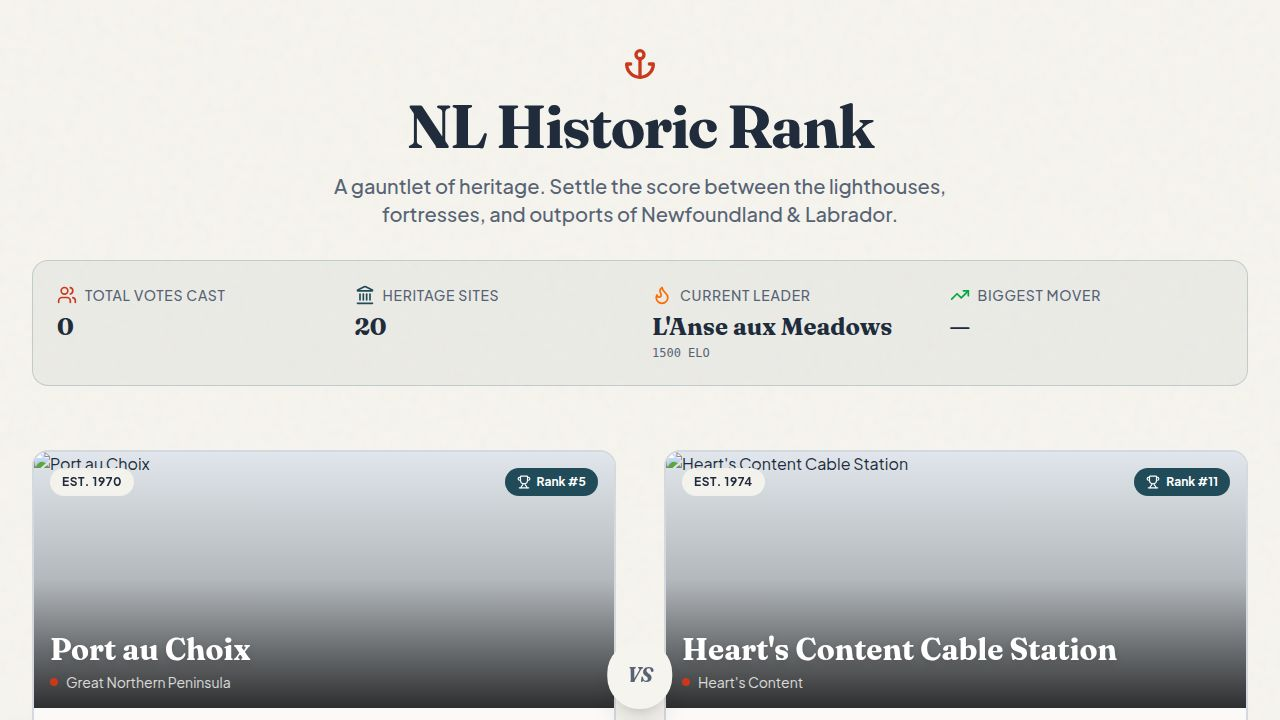
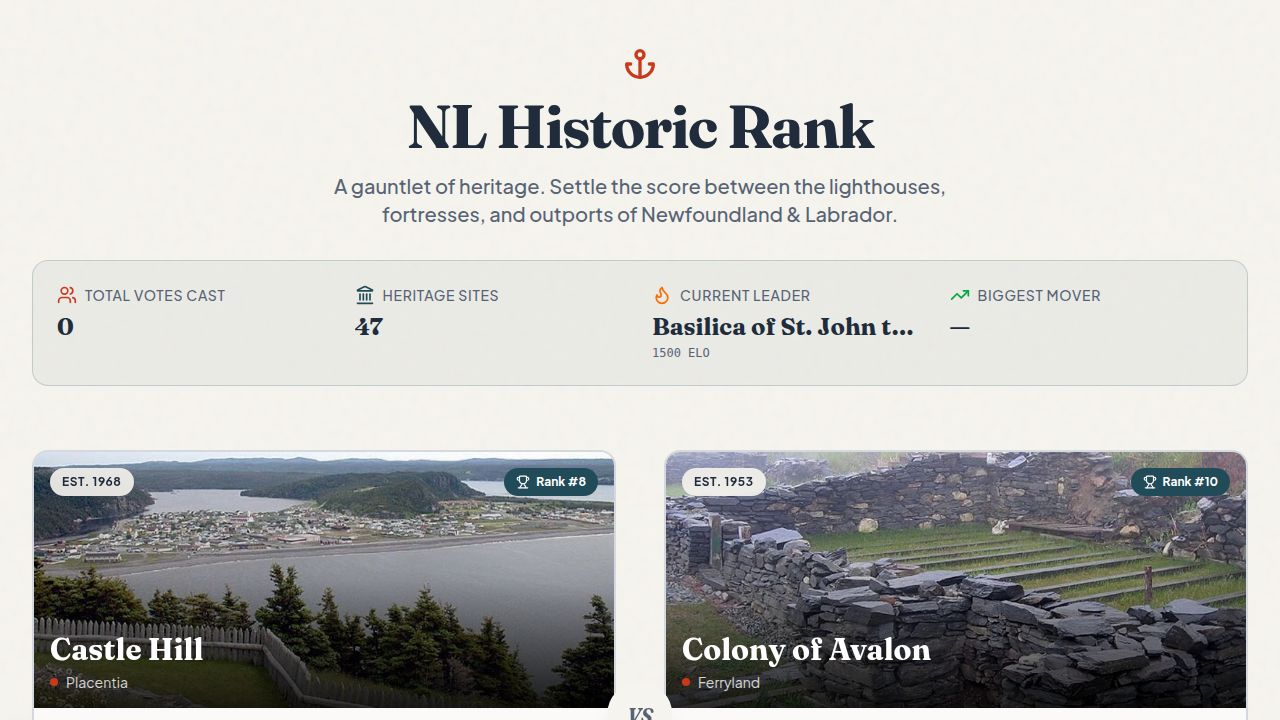
Improve image loading and display across the application
Introduce a new `SiteImage` component to handle image loading with retries, lazy loading, and fallbacks. Update `matchup.tsx`, `rankings.tsx`, and `site-detail-dialog.tsx` to use the new component.

Replit-Commit-Author: Agent
Replit-Commit-Session-Id: 2537e91c-dea8-46b8-84ee-7a7e94a284e6
Replit-Commit-Checkpoint-Type: full_checkpoint
Replit-Commit-Event-Id: 475016c2-a976-45b3-a6ca-d1c51f2db19e
Replit-Commit-Screenshot-Url: https://storage.googleapis.com/screenshot-production-us-central1/49ffbed3-a589-4a9d-927f-03249e78f3f7/2537e91c-dea8-46b8-84ee-7a7e94a284e6/lET9mZ5
Replit-Helium-Checkpoint-Created: true

Changed region(s): [[0.0, 0.6111, 1.0, 1.0], [0.5, 0.4278, 0.7188, 0.4889], [0.2812, 0.4278, 0.3125, 0.4889]]

diff --git a/artifacts/nl-historic-rank/src/components/site-detail-dialog.tsx b/artifacts/nl-historic-rank/src/components/site-detail-dialog.tsx
@@ -2,6 +2,7 @@ import { Dialog, DialogContent, DialogHeader, DialogTitle } from "@/components/u
 import { Badge } from "@/components/ui/badge";
 import { Trophy, MapPin, Swords, TrendingUp, TrendingDown, Minus, Calendar } from "lucide-react";
 import type { RankedSite } from "@workspace/api-client-react";
+import { SiteImage } from "./site-image";
 
 export default function SiteDetailDialog({
   site,
@@ -22,17 +23,13 @@ export default function SiteDetailDialog({
         {site && (
           <>
             <div className="relative h-64 w-full bg-muted">
-              {site.imageUrl ? (
-                <img
-                  src={site.imageUrl}
-                  alt={site.name}
-                  className="w-full h-full object-cover"
-                />
-              ) : (
-                <div className="w-full h-full flex items-center justify-center text-6xl text-muted-foreground font-serif italic opacity-30">
-                  {site.name[0]}
-                </div>
-              )}
+              <SiteImage
+                src={site.imageUrl}
+                alt={site.name}
+                fallbackInitial={site.name[0]}
+                className="w-full h-full object-cover"
+                fallbackClassName="w-full h-full flex items-center justify-center text-6xl text-muted-foreground font-serif italic opacity-30"
+              />
               <div className="absolute inset-0 bg-gradient-to-t from-black/80 via-black/20 to-transparent" />
               <div className="absolute top-4 right-4 flex gap-2">
                 <Badge variant="secondary" className="gap-1.5 px-3 py-1">

diff --git a/artifacts/nl-historic-rank/src/components/matchup.tsx b/artifacts/nl-historic-rank/src/components/matchup.tsx
@@ -13,6 +13,7 @@ import type { RankedSite } from "@workspace/api-client-react";
 import { Skeleton } from "@/components/ui/skeleton";
 import { Trophy, Swords, AlertCircle, RefreshCw, SkipForward } from "lucide-react";
 import { Button } from "@/components/ui/button";
+import { SiteImage } from "./site-image";
 
 export default function MatchupHero() {
   const queryClient = useQueryClient();
@@ -208,17 +209,13 @@ function SiteCard({
       style={{ minHeight: "450px" }}
     >
       <div className="h-64 w-full relative bg-muted overflow-hidden flex-shrink-0">
-        {site.imageUrl ? (
-          <img 
-            src={site.imageUrl} 
-            alt={site.name} 
-            className="w-full h-full object-cover object-center transition-transform duration-700 group-hover:scale-105"
-          />
-        ) : (
-          <div className="w-full h-full flex items-center justify-center bg-secondary/10 text-secondary">
-            <span className="font-serif italic text-2xl opacity-50">{site.name[0]}</span>
-          </div>
-        )}
+        <SiteImage
+          src={site.imageUrl}
+          alt={site.name}
+          fallbackInitial={site.name[0]}
+          className="w-full h-full object-cover object-center transition-transform duration-700 group-hover:scale-105"
+          fallbackClassName="w-full h-full flex items-center justify-center bg-secondary/10 text-secondary"
+        />
         <div className="absolute inset-0 bg-gradient-to-t from-black/80 via-black/20 to-transparent" />
         
         {/* Badge: Designation Year */}

diff --git a/artifacts/nl-historic-rank/src/components/rankings.tsx b/artifacts/nl-historic-rank/src/components/rankings.tsx
@@ -6,6 +6,7 @@ import { Skeleton } from "@/components/ui/skeleton";
 import { Input } from "@/components/ui/input";
 import { TrendingUp, TrendingDown, Minus, MapPin, Trophy, Search } from "lucide-react";
 import SiteDetailDialog from "./site-detail-dialog";
+import { SiteImage } from "./site-image";
 
 export default function RankingsList() {
   const { data: sites, isLoading } = useListSites();
@@ -102,17 +103,13 @@ export default function RankingsList() {
                 </div>
 
                 <div className="w-12 h-12 rounded-full overflow-hidden bg-muted flex-shrink-0 border border-border/50">
-                  {site.imageUrl ? (
-                    <img
-                      src={site.imageUrl}
-                      alt={site.name}
-                      className="w-full h-full object-cover"
-                    />
-                  ) : (
-                    <div className="w-full h-full flex items-center justify-center font-serif text-muted-foreground">
-                      {site.name[0]}
-                    </div>
-                  )}
+                  <SiteImage
+                    src={site.imageUrl}
+                    alt={site.name}
+                    fallbackInitial={site.name[0]}
+                    className="w-full h-full object-cover"
+                    fallbackClassName="w-full h-full flex items-center justify-center font-serif text-muted-foreground"
+                  />
                 </div>
 
                 <div className="flex-grow min-w-0">

diff --git a/artifacts/nl-historic-rank/src/components/site-image.tsx b/artifacts/nl-historic-rank/src/components/site-image.tsx
@@ -1,0 +1,62 @@
+import { useEffect, useState } from "react";
+
+interface SiteImageProps {
+  src: string | null | undefined;
+  alt: string;
+  fallbackInitial: string;
+  className?: string;
+  fallbackClassName?: string;
+}
+
+const MAX_RETRIES = 2;
+
+export function SiteImage({
+  src,
+  alt,
+  fallbackInitial,
+  className,
+  fallbackClassName,
+}: SiteImageProps) {
+  const [retryCount, setRetryCount] = useState(0);
+  const [failed, setFailed] = useState(false);
+
+  useEffect(() => {
+    setRetryCount(0);
+    setFailed(false);
+  }, [src]);
+
+  if (!src || failed) {
+    return (
+      <div
+        className={
+          fallbackClassName ??
+          "w-full h-full flex items-center justify-center bg-secondary/10 text-secondary"
+        }
+      >
+        <span className="font-serif italic text-2xl opacity-50">
+          {fallbackInitial}
+        </span>
+      </div>
+    );
+  }
+
+  const cacheBustedSrc =
+    retryCount > 0 ? `${src}${src.includes("?") ? "&" : "?"}cb=${retryCount}` : src;
+
+  return (
+    <img
+      src={cacheBustedSrc}
+      alt={alt}
+      loading="lazy"
+      referrerPolicy="no-referrer"
+      className={className}
+      onError={() => {
+        if (retryCount < MAX_RETRIES) {
+          setRetryCount((c) => c + 1);
+        } else {
+          setFailed(true);
+        }
+      }}
+    />
+  );
+}
